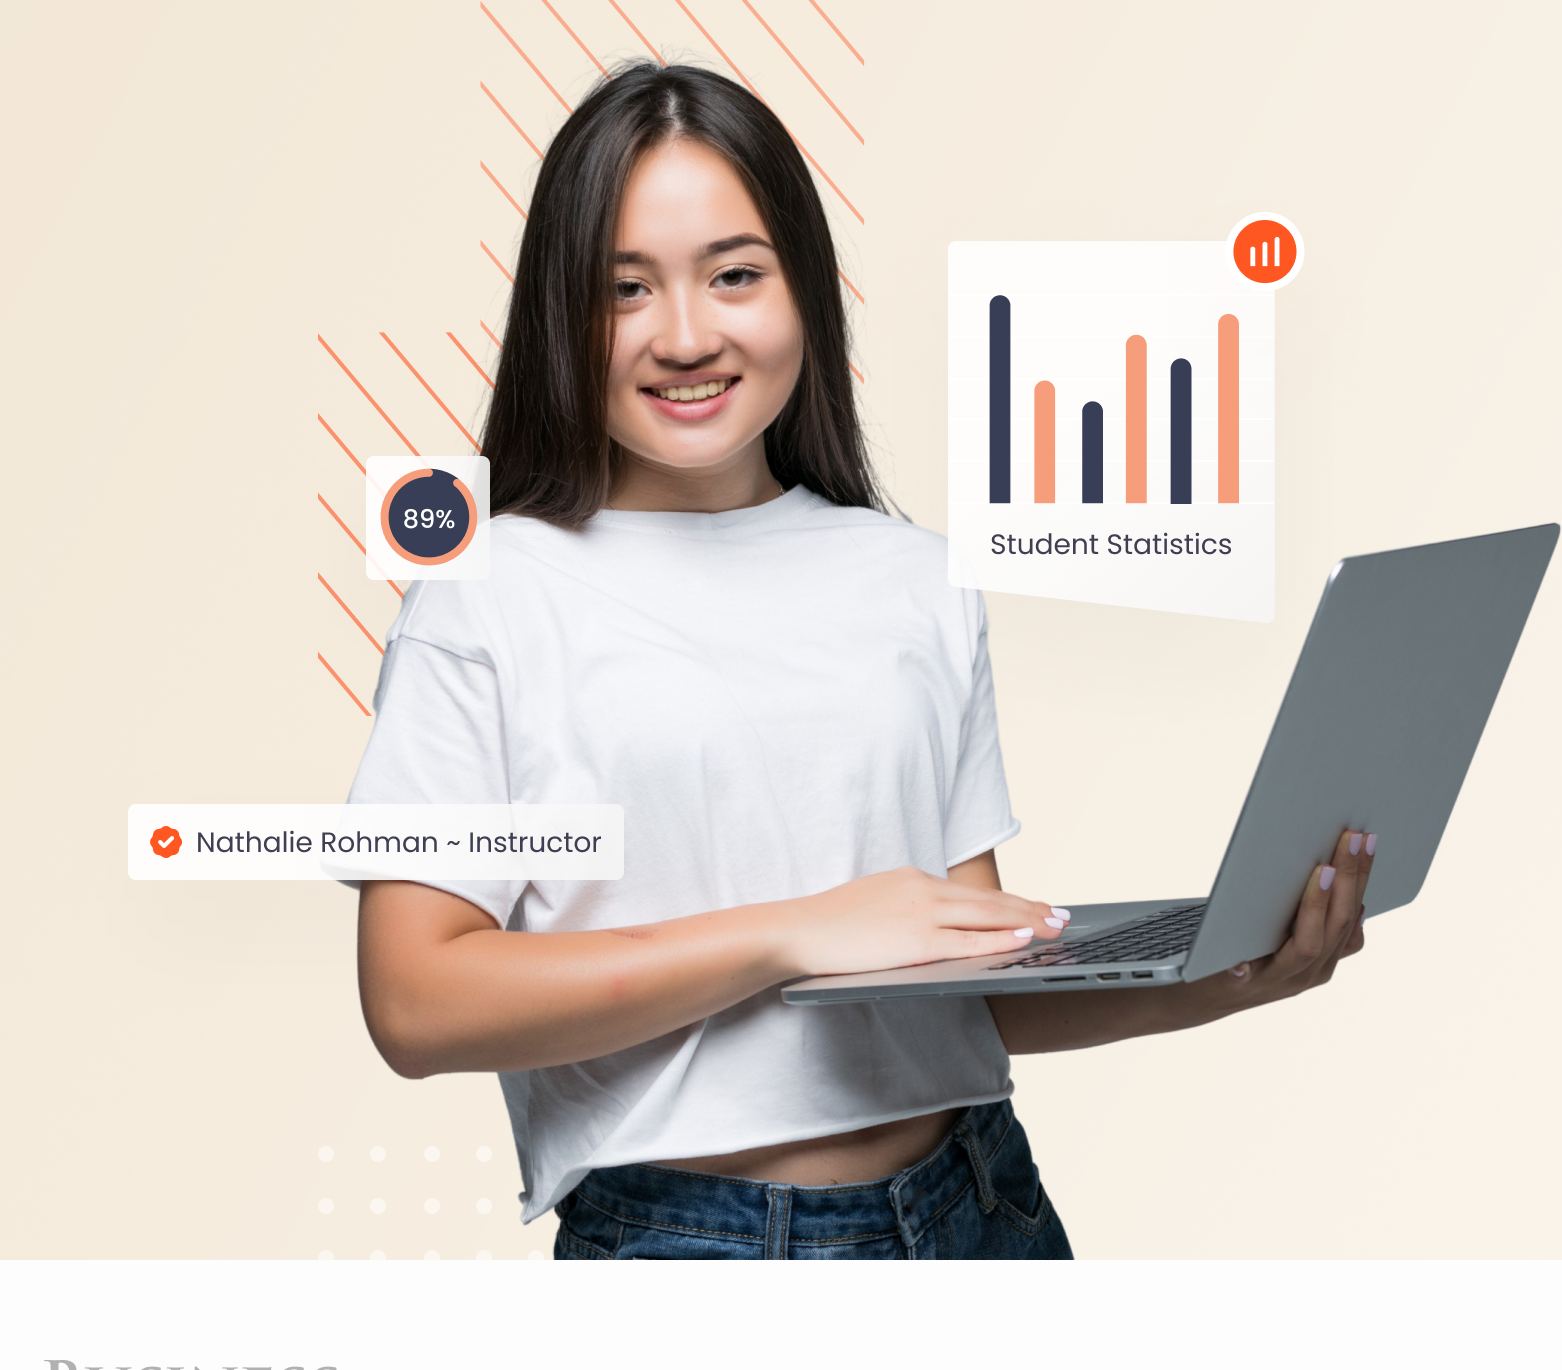
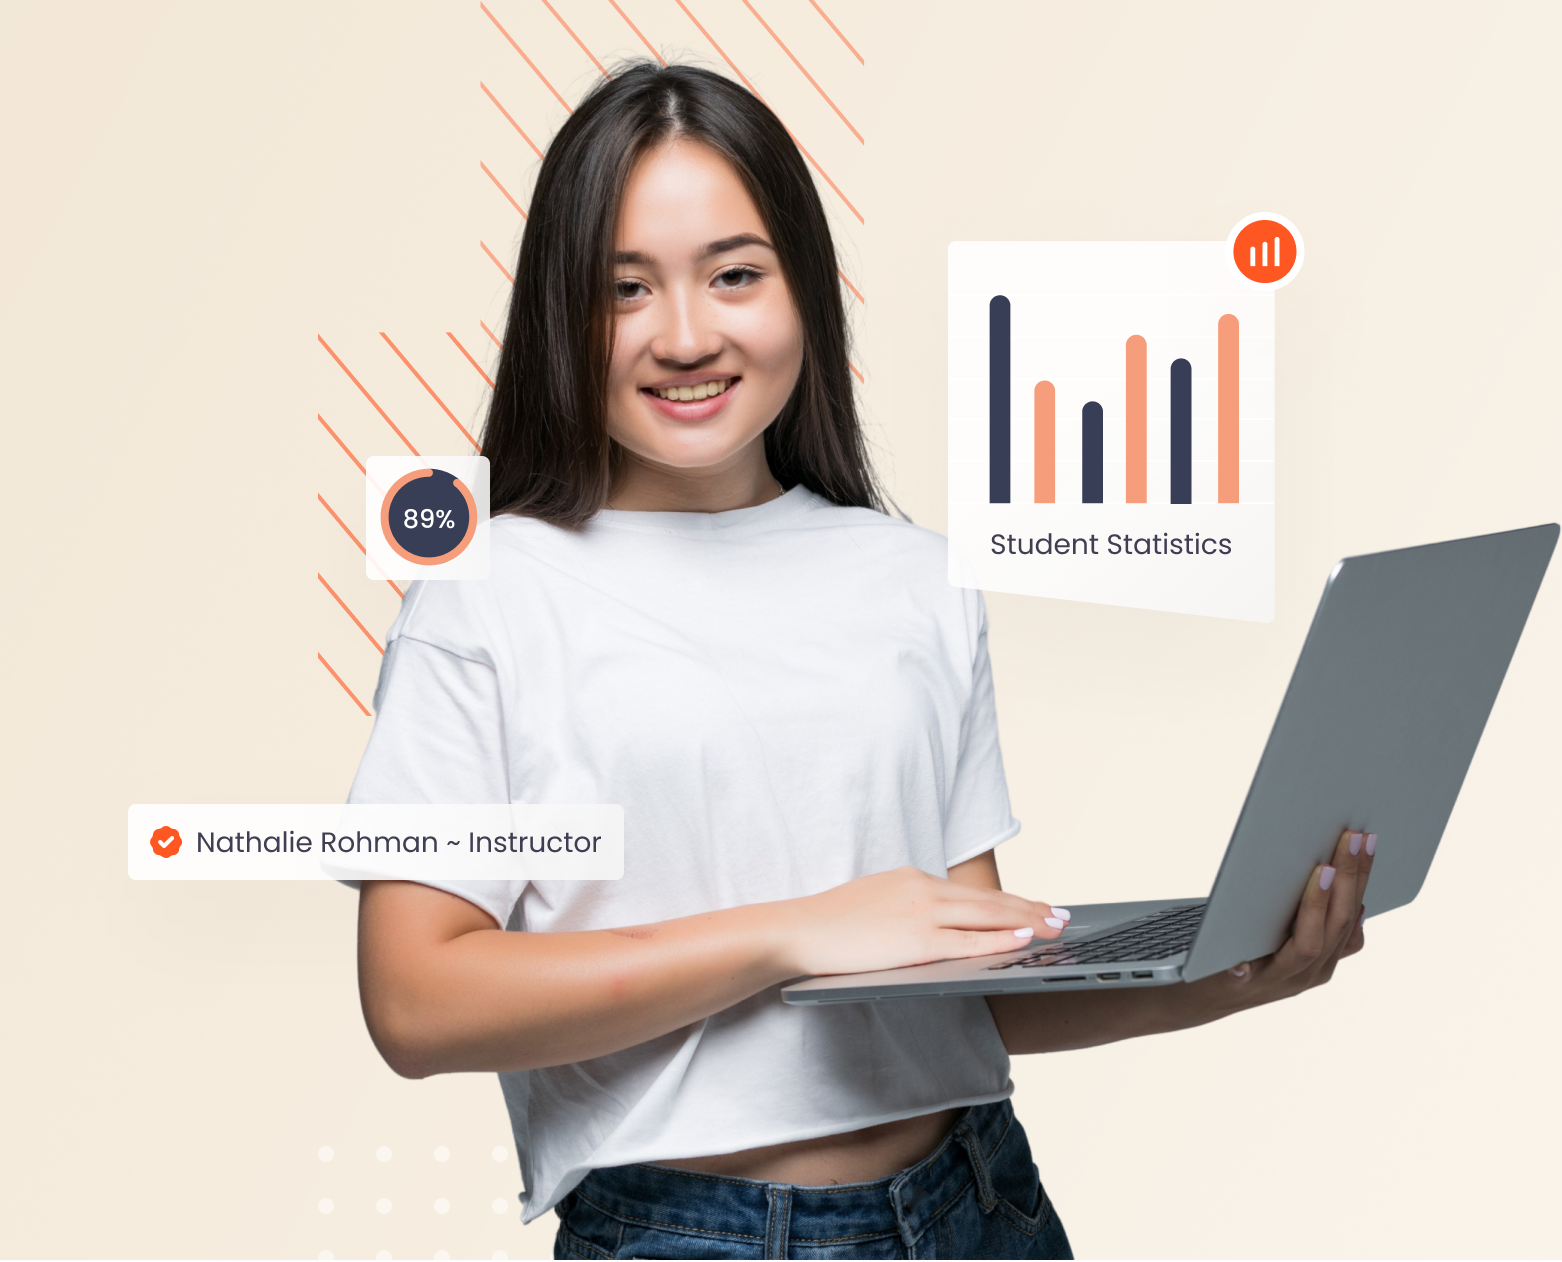
media partners created

diff --git a/style.css b/style.css
@@ -97,10 +97,14 @@ a{
 
 .home__left{
     float: left;
+    position: relative;
+    z-index: 3;
     width: 57%;
 }
 .home__right{
     float: left;
+    width: 40%;
+    position: relative;
 }
 
 
@@ -126,7 +130,9 @@ a{
 }
 
 .home__img{
-    width: 300px;
+    width: 129%;
+    position: absolute;
+    left: -70px;
 }
 
 .home__main-btn{
@@ -152,4 +158,15 @@ a{
     color: var(--main-color);
     border: 1px solid var(--main-color);
     transition: .4s;
+}
+
+/* // media parners */
+
+.media__partners{
+    width: 100%;
+    margin: 20px 0px;
+    padding: 50px 100px;
+}
+.media__partner{
+    margin: 0px 30px;
 }

diff --git a/index.html b/index.html
@@ -51,6 +51,12 @@
             </div>
         </div>
     </div>
-    
+    <div class="media__partners">
+        <img  class="media__partner" src="./assets/img/google.png" alt="google" />
+        <img  class="media__partner" src="./assets/img/business-insider.png" alt="business-insider" />
+        <img  class="media__partner" src="./assets/img/careem.png" alt="careem" />
+        <img  class="media__partner" src="./assets/img/linkedin.png" alt="linkedin" />
+        <img  class="media__partner" src="./assets/img/samsung.png" alt="samsung" />
+    </div>
 </body>
 </html>
